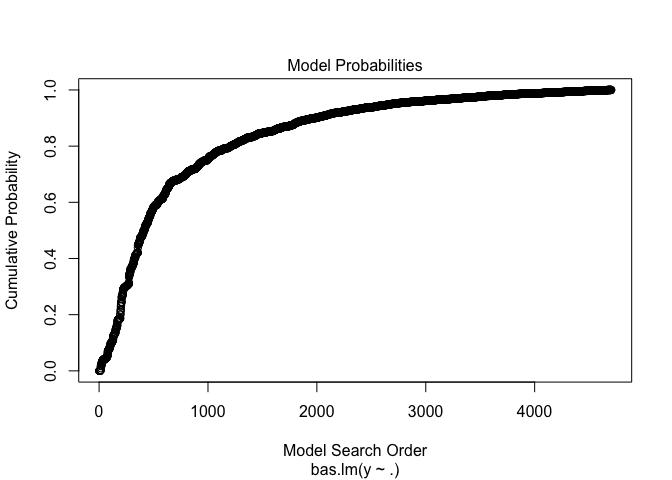
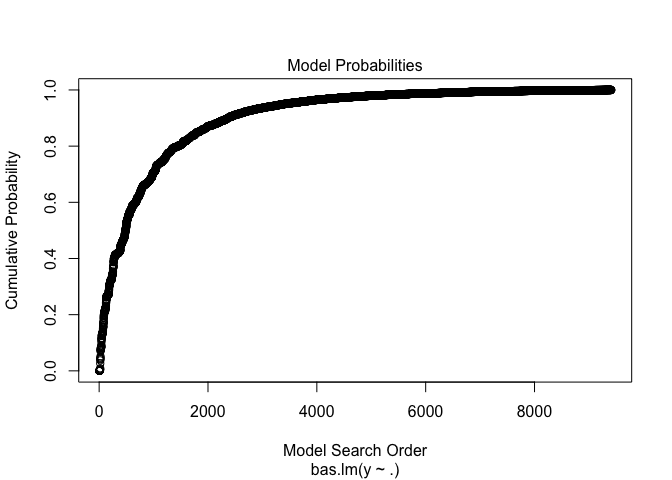
updated images/files based on new version of BAS

diff --git a/04_bayesian_statistics/week_04/5.4.3_demo/R/5.4.3_demo.md b/04_bayesian_statistics/week_04/5.4.3_demo/R/5.4.3_demo.md
@@ -100,6 +100,18 @@ diagnostics(crime.ZS, type="model", col=myblue, pch=16, cex=1.5)
 
 This suggests that we should use more `MCMC.iterations` if we want more accurate estimates of the posterior model probabilities.
 
+``` r
+crime.ZS =  bas.lm(y ~ ., 
+                   data=UScrime,
+                   prior="ZS-null",
+                   modelprior=uniform(),
+                   method = "MCMC", MCMC.iterations = 10^6)  
+
+diagnostics(crime.ZS, type="model", pch=16, col=myblue)
+```
+
+![](5.4.3_demo_files/figure-markdown_github/biggerMCMC-1.png)
+
 ### plots of BAS objects
 
 BAS objects have a default plotting method:
@@ -185,3 +197,29 @@ plot(coef.ZS)
 ```
 
 ![](5.4.3_demo_files/figure-markdown_github/unnamed-chunk-8-1.png)![](5.4.3_demo_files/figure-markdown_github/unnamed-chunk-8-2.png)![](5.4.3_demo_files/figure-markdown_github/unnamed-chunk-8-3.png)![](5.4.3_demo_files/figure-markdown_github/unnamed-chunk-8-4.png)![](5.4.3_demo_files/figure-markdown_github/unnamed-chunk-8-5.png)![](5.4.3_demo_files/figure-markdown_github/unnamed-chunk-8-6.png)![](5.4.3_demo_files/figure-markdown_github/unnamed-chunk-8-7.png)![](5.4.3_demo_files/figure-markdown_github/unnamed-chunk-8-8.png)![](5.4.3_demo_files/figure-markdown_github/unnamed-chunk-8-9.png)![](5.4.3_demo_files/figure-markdown_github/unnamed-chunk-8-10.png)![](5.4.3_demo_files/figure-markdown_github/unnamed-chunk-8-11.png)![](5.4.3_demo_files/figure-markdown_github/unnamed-chunk-8-12.png)![](5.4.3_demo_files/figure-markdown_github/unnamed-chunk-8-13.png)![](5.4.3_demo_files/figure-markdown_github/unnamed-chunk-8-14.png)![](5.4.3_demo_files/figure-markdown_github/unnamed-chunk-8-15.png)![](5.4.3_demo_files/figure-markdown_github/unnamed-chunk-8-16.png)
+
+Credible intervals:
+
+``` r
+round(confint(coef.ZS), 4)
+```
+
+    ##            2.5  % 97.5  %
+    ## Intercept  6.6686  6.7830
+    ## M          0.0000  2.1678
+    ## So        -0.0545  0.3131
+    ## Ed         0.6185  3.1067
+    ## Po1        0.0000  1.4428
+    ## Po2       -0.1593  1.4791
+    ## LF        -0.4845  0.9753
+    ## M.F       -2.1314  1.8669
+    ## Pop       -0.1283  0.0029
+    ## NW         0.0000  0.1660
+    ## U1        -0.5440  0.3416
+    ## U2         0.0000  0.6648
+    ## GDP       -0.0984  1.1618
+    ## Ineq       0.6622  2.1089
+    ## Prob      -0.4137  0.0000
+    ## Time      -0.5267  0.0552
+    ## attr(,"Probability")
+    ## [1] 0.95
